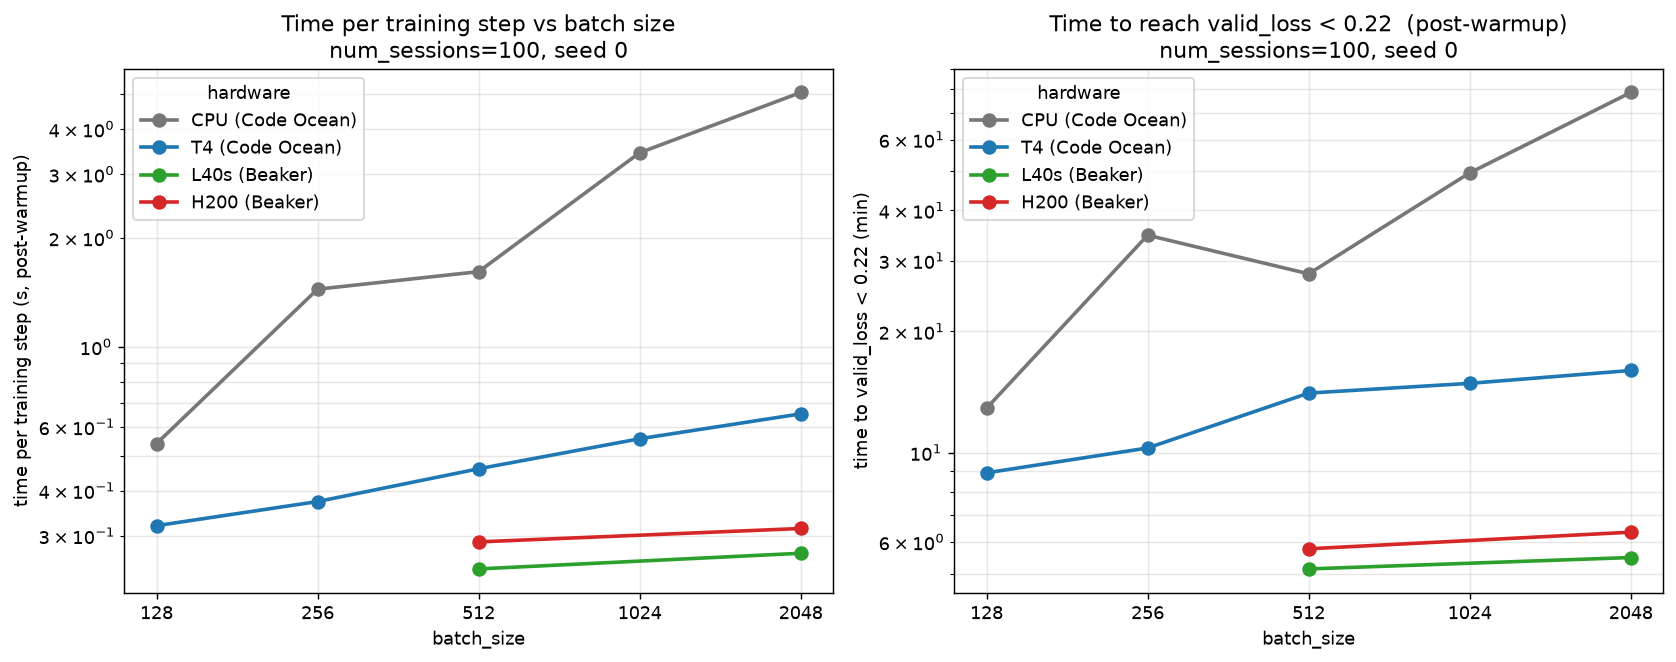
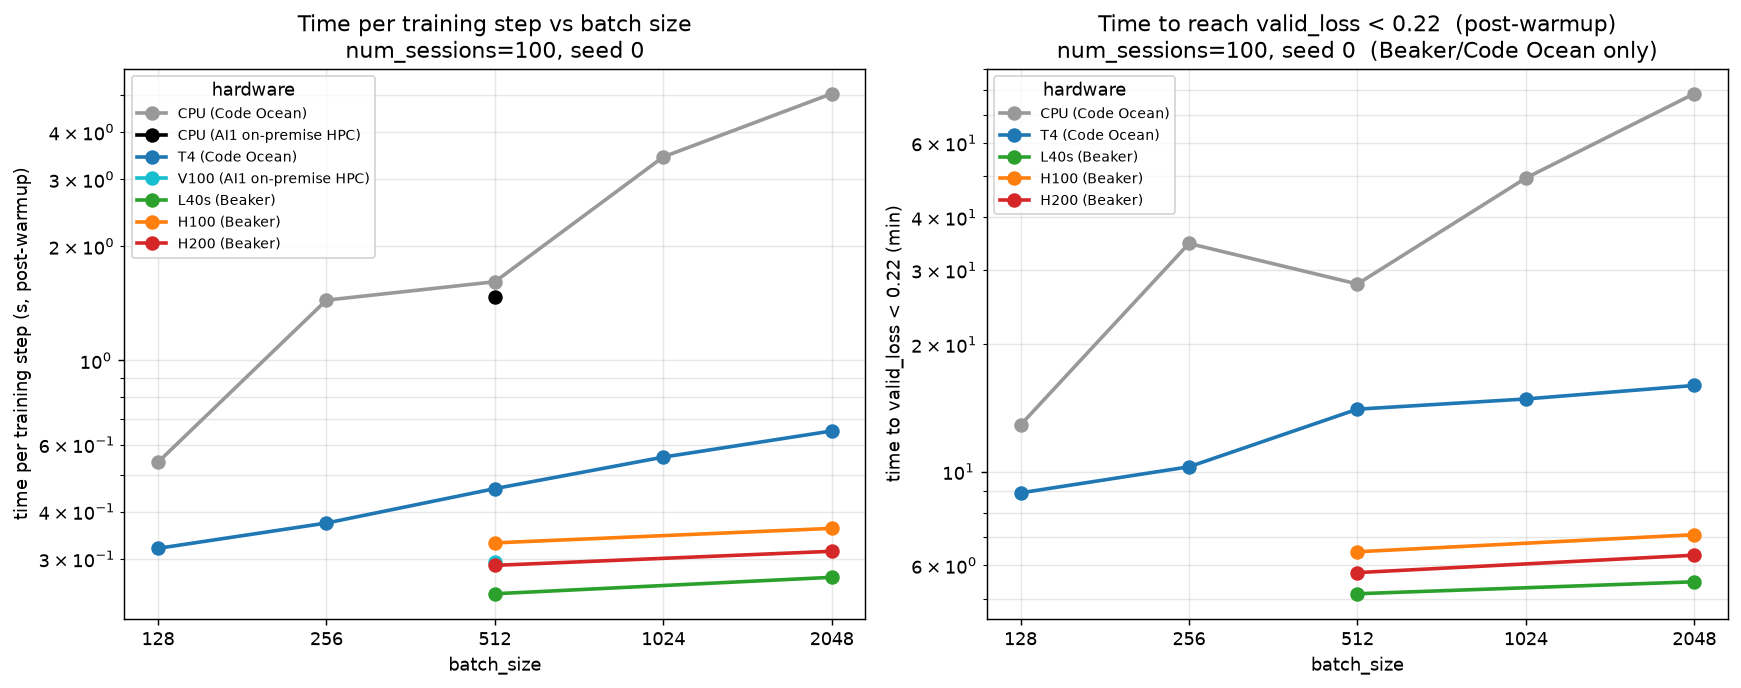
docs(beaker): 7-way hardware benchmark — add H100 (Beaker) + V100/CPU (AI1 HPC)
L40s remains fastest; V100/H100/H200 all sit above it (old V100 ties H200),
44-core HPC CPU ~= 4-core CO CPU. Figure now spans 3 platforms; plot script
uses direct final-summary s/step only.

diff --git a/beaker/benchmark/plot_hw_batch.py b/beaker/benchmark/plot_hw_batch.py
@@ -4,18 +4,23 @@ Pulls the benchmark runs from W&B and renders a 2-panel figure:
   left  = time per training step (s, post-warmup) vs batch size
   right = time to reach valid_loss < THRESHOLD (min, post-warmup) vs batch size
 
-All runs share the config (num_sessions=100, n_steps=5000, n_warmup_steps=500,
-lr=0.005, beta=0.001, seed=0, eval_every_n=2); only batch size / hardware vary.
-CPU and T4 ran on Code Ocean (Feb 2026); L40s and H200 on Beaker (Jun 2026).
+Hardware spans three platforms:
+  - Code Ocean   : CPU (4-core), T4
+  - AI1 on-premise HPC : CPU (44-core), V100   (s/step only -- see below)
+  - Beaker (AI Hub)    : L40s, H100, H200
+
+The Beaker/Code-Ocean runs share the config (num_sessions=100, n_steps=5000,
+n_warmup_steps=500, lr=0.005, beta=0.001, seed=0, eval_every_n=2); only batch
+size / hardware vary. The HPC runs use a shorter schedule (n_steps=200) on an
+older code revision, so their *throughput* (s/step) is comparable but their
+*time-to-target* is not -- HPC hardware therefore appears only on the left panel.
 
 NB the warm-up: a penalty term is inactive during the first n_warmup_steps, so
 validation loss there is not meaningful (it can dip below threshold spuriously).
-We therefore ignore eval points with step < n_warmup_steps for the crossing time.
+We ignore eval points with step < n_warmup_steps for the crossing time.
 
-Caveat: the CPU/T4 (Feb) and L40s/H200 (Jun) runs used different code revisions
-(active development); CPU/T4 floor at min val ~0.210 and never reach 0.21, so only
-the 0.22 threshold is a fair four-way comparison. Single seed -> the time-to-
-threshold curve is somewhat noisy.
+s/step is (elapsed_seconds - warmup_seconds) / n_steps from the run summary -- the
+direct measurement, logged when a run finishes. All runs must be complete.
 
 Run:  python plot_hw_batch.py
 """
@@ -25,29 +30,36 @@ import matplotlib.pyplot as plt
 import wandb
 
 ENTITY = "AIND-disRNN"
-NSTEP = 5000
 THRESHOLD = 0.22
 BS = [128, 256, 512, 1024, 2048]
 
-# hardware -> {batch_size: W&B run id}
-RUNS = {
-    "CPU":  {128: "jlx2egp9", 256: "xpnfv6xq", 512: "7n3r4x62",
-             1024: "unitjg8a", 2048: "2bvl403t"},
-    "T4":   {128: "l5z3dbac", 256: "23e7ndiv", 512: "g9jibgqd",
-             1024: "v0d2vmg8", 2048: "biflbgn5"},
-    "L40s": {512: "ybzvw1l9", 2048: "1wbc4tko"},
-    "H200": {512: "vhm9w9hz", 2048: "w5ix4w78"},
-}
-PROJ = {"CPU": "han_cpu_gpu_test", "T4": "han_cpu_gpu_test",
-        "L40s": "ai_hub_test", "H200": "ai_hub_test"}
-LABEL = {"CPU": "CPU (Code Ocean)", "T4": "T4 (Code Ocean)",
-         "L40s": "L40s (Beaker)", "H200": "H200 (Beaker)"}
-COL = {"CPU": "#777777", "T4": "tab:blue", "L40s": "tab:green", "H200": "tab:red"}
-ORDER = ["CPU", "T4", "L40s", "H200"]
+# label -> spec. panels: which panel(s) the series appears on.
+HW = [
+    dict(label="CPU (Code Ocean)", project="han_cpu_gpu_test",
+         color="#999999", panels=("sps", "ttt"),
+         runs={128: "jlx2egp9", 256: "xpnfv6xq", 512: "7n3r4x62",
+               1024: "unitjg8a", 2048: "2bvl403t"}),
+    dict(label="CPU (AI1 on-premise HPC)", project="hpc_test",
+         color="#000000", panels=("sps",), runs={512: "ya2n3sx5"}),
+    dict(label="T4 (Code Ocean)", project="han_cpu_gpu_test",
+         color="tab:blue", panels=("sps", "ttt"),
+         runs={128: "l5z3dbac", 256: "23e7ndiv", 512: "g9jibgqd",
+               1024: "v0d2vmg8", 2048: "biflbgn5"}),
+    dict(label="V100 (AI1 on-premise HPC)", project="hpc_test",
+         color="tab:cyan", panels=("sps",), runs={512: "q9acoys6"}),
+    dict(label="L40s (Beaker)", project="ai_hub_test",
+         color="tab:green", panels=("sps", "ttt"),
+         runs={512: "ybzvw1l9", 2048: "1wbc4tko"}),
+    dict(label="H100 (Beaker)", project="ai_hub_test",
+         color="tab:orange", panels=("sps", "ttt"),
+         runs={512: "l9cb2l2c", 2048: "ne6hxgvz"}),
+    dict(label="H200 (Beaker)", project="ai_hub_test",
+         color="tab:red", panels=("sps", "ttt"),
+         runs={512: "vhm9w9hz", 2048: "w5ix4w78"}),
+]
 
 
 def _find(d, target):
-    """Recursive lookup of a key anywhere in a nested config dict."""
     if isinstance(d, dict):
         for k, v in d.items():
             if k == target:
@@ -58,52 +70,65 @@ def _find(d, target):
     return None
 
 
-def collect():
-    api = wandb.Api()
-    sps, ttt = {}, {}   # hw -> bs -> value
-    for hw, m in RUNS.items():
-        sps[hw], ttt[hw] = {}, {}
-        for bs, rid in m.items():
-            run = api.run(f"{ENTITY}/{PROJ[hw]}/{rid}")
-            s = run.summary
-            sps[hw][bs] = (s["elapsed_seconds"] - s["warmup_seconds"]) / NSTEP
-            wu = _find(run.config, "n_warmup_steps") or 500
-            h = run.history(keys=["valid/loss", "_runtime", "_step"], pandas=True)
-            h = h.dropna(subset=["valid/loss"]).sort_values("_step")
-            post = h[h["_step"] >= wu]            # ignore warm-up-phase eval
-            below = post[post["valid/loss"] < THRESHOLD]
-            ttt[hw][bs] = float(below.iloc[0]["_runtime"]) / 60 if len(below) else None
+def _metrics(run):
+    """Return (s_per_step, time_to_threshold_min). Requires a finished run."""
+    s, c = run.summary, run.config
+    nstep = _find(c, "n_steps")
+    wu_steps = _find(c, "n_warmup_steps") or 500
+    el, ws = s.get("elapsed_seconds"), s.get("warmup_seconds")
+    if el is None or ws is None:
+        raise RuntimeError(f"run {run.id} not finished (no elapsed/warmup logged)")
+    sps = (el - ws) / nstep
+
+    h = run.history(keys=["valid/loss", "_runtime", "_step"], pandas=True)
+    h = h.dropna(subset=["valid/loss"]).sort_values("_step")
+    post = h[h["_step"] >= wu_steps]              # ignore warm-up-phase eval
+    below = post[post["valid/loss"] < THRESHOLD]
+    ttt = float(below.iloc[0]["_runtime"]) / 60 if len(below) else None
     return sps, ttt
 
 
-def plot(sps, ttt, out_png):
-    fig, (axL, axR) = plt.subplots(1, 2, figsize=(13, 5.2))
+def collect():
+    api = wandb.Api()
+    data = {}
+    for hw in HW:
+        d = {"sps": {}, "ttt": {}}
+        for bs, rid in hw["runs"].items():
+            sps, ttt = _metrics(api.run(f"{ENTITY}/{hw['project']}/{rid}"))
+            d["sps"][bs] = sps
+            if "ttt" in hw["panels"] and ttt is not None:
+                d["ttt"][bs] = ttt
+        data[hw["label"]] = d
+    return data
 
-    # left: time per training step
-    for hw in ORDER:
-        xs = [bs for bs in BS if bs in sps[hw]]
-        axL.plot(xs, [sps[hw][bs] for bs in xs], "o-",
-                 color=COL[hw], label=LABEL[hw], lw=2, ms=7)
-    axL.set_yscale("log")
+
+def plot(data, out_png):
+    fig, (axL, axR) = plt.subplots(1, 2, figsize=(13.5, 5.4))
+
+    for hw in HW:
+        d = data[hw["label"]]
+        if "sps" in hw["panels"]:
+            xs = [bs for bs in BS if bs in d["sps"]]
+            axL.plot(xs, [d["sps"][bs] for bs in xs], "o-",
+                     color=hw["color"], label=hw["label"], lw=2, ms=7)
+        if "ttt" in hw["panels"]:
+            xs = [bs for bs in BS if bs in d["ttt"]]
+            axR.plot(xs, [d["ttt"][bs] for bs in xs], "o-",
+                     color=hw["color"], label=hw["label"], lw=2, ms=7)
+
     axL.set_ylabel("time per training step (s, post-warmup)")
     axL.set_title("Time per training step vs batch size\nnum_sessions=100, seed 0")
-
-    # right: time to reach valid_loss < THRESHOLD
-    for hw in ORDER:
-        xs = [bs for bs in BS if ttt[hw].get(bs) is not None]
-        axR.plot(xs, [ttt[hw][bs] for bs in xs], "o-",
-                 color=COL[hw], label=LABEL[hw], lw=2, ms=7)
-    axR.set_yscale("log")
     axR.set_ylabel(f"time to valid_loss < {THRESHOLD} (min)")
     axR.set_title(f"Time to reach valid_loss < {THRESHOLD}  (post-warmup)\n"
-                  "num_sessions=100, seed 0")
+                  "num_sessions=100, seed 0  (Beaker/Code Ocean only)")
 
     for ax in (axL, axR):
         ax.set_xscale("log", base=2)
+        ax.set_yscale("log")
         ax.set_xticks(BS)
         ax.set_xticklabels(BS)
         ax.set_xlabel("batch_size")
-        ax.legend(title="hardware")
+        ax.legend(title="hardware", fontsize=8)
         ax.grid(True, which="both", alpha=0.3)
 
     fig.tight_layout()
@@ -113,6 +138,10 @@ def plot(sps, ttt, out_png):
 
 if __name__ == "__main__":
     import os
-    sps, ttt = collect()
-    plot(sps, ttt, os.path.join(os.path.dirname(__file__),
-                                "hw_batch_benchmark.png"))
+    data = collect()
+    for label in (h["label"] for h in HW):
+        d = data[label]
+        print(label, "s/step:", {b: round(v, 4) for b, v in d["sps"].items()},
+              "| time-to-0.22:", {b: round(v, 2) for b, v in d["ttt"].items()})
+    plot(data, os.path.join(os.path.dirname(__file__),
+                            "hw_batch_benchmark.png"))

diff --git a/beaker/README.md b/beaker/README.md
@@ -82,37 +82,38 @@ The wasted capacity is **spatial** (idle SMs *inside* each kernel), not temporal
     kernels**, confirming the low-occupancy diagnosis (and refuting the earlier guess
     that eval was to blame).
 
-11. **CPU / T4 / L40s / H200 hardware sweep (seed 0, `data.batch_size=512`).** A bigger
-    GPU stops helping past the L40s — the H200 is actually *slower* than the L40s, at
-    the lowest power %. Clean signature of a latency-bound, low-occupancy model: GPU
-    beats CPU (3.5–6.6×), but extra GPU capacity goes unused. **NB: this is bs=512** —
-    the result is batch-size dependent (see item 12).
+11. **CPU / T4 / L40s / H100 / H200 hardware sweep (seed 0, `data.batch_size=512`).** A
+    bigger GPU stops helping past the L40s — the H100 *and* H200 are both *slower* than
+    the L40s, at the lowest power %. Clean signature of a latency-bound, low-occupancy
+    model: GPU beats CPU (3.5–6.6×), but extra GPU capacity goes unused. **NB: this is
+    bs=512** — the result is batch-size dependent (see item 12).
 
-    | Metric (bs=512) | CPU (4-core, CO) | T4 (CO) | L40s | H200 |
-    |---|---|---|---|---|
-    | train s/step | 1.612 | 0.460 | **0.243** | 0.289 |
-    | total elapsed (5500 steps) | 8322 s | 2549 s | **1352 s** | 1600 s |
-    | speedup vs CPU | 1.0× | 3.5× | **6.6×** | 5.6× |
-    | GPU util | — | 99% | 96% | 97% |
-    | GPU power | — | 57% (40 W) | 30% (105 W) | **18% (125 W)** |
-    | energy / run | — | 102 kJ | 142 kJ | **200 kJ** |
+    | Metric (bs=512) | CPU (4-core, CO) | T4 (CO) | L40s | H200 | H100 |
+    |---|---|---|---|---|---|
+    | train s/step | 1.612 | 0.460 | **0.243** | 0.289 | 0.331 |
+    | total elapsed (5500 steps) | 8322 s | 2549 s | **1352 s** | 1600 s | 1832 s |
+    | speedup vs CPU | 1.0× | 3.5× | **6.6×** | 5.6× | 4.9× |
+    | GPU util | — | 99% | 96% | 97% | 98% |
+    | GPU power | — | 57% (40 W) | 30% (105 W) | **18% (125 W)** | 19% (133 W) |
+    | energy / run | — | 102 kJ | 142 kJ | 200 kJ | **244 kJ** |
 
-    **At bs=512: L40s is the sweet spot** — fastest *and* less wasteful than the H200.
-    The H200's extra SMs/bandwidth can't be used by a narrow+deep tiny model at this
-    batch, so it sits at 18% power (700 W card) and burns the most energy. (Bigger
-    batches change this — item 12.)
+    **At bs=512: L40s is the sweet spot** — fastest *and* least wasteful. The bigger
+    Hopper cards (H100/H200) can't use their extra SMs/bandwidth on a narrow+deep tiny
+    model, so they sit at ~18–19% power and burn the most energy (the H100 is both the
+    slowest GPU here *and* the least efficient). (Bigger batches change the per-step
+    cost but not this ranking — item 12.)
 
 12. **Batch size = the real per-GPU lever (bs=2048 vs bs=512).** Re-ran the sweep at
     `data.batch_size=2048` (all else fixed). On the big GPUs a 4× batch costs almost no
     wall-clock — the spatial headroom (idle SMs) absorbs it:
 
-    | Metric (bs=2048) | CPU (4-core) | T4 | L40s | H200 |
-    |---|---|---|---|---|
-    | train s/step | 5.045 | 0.652 | **0.268** | 0.314 |
-    | total elapsed (5500) | 26066 s | 3602 s | **1494 s** | 1748 s |
-    | speedup vs CPU | 1.0× | 7.7× | **18.9×** | 16.1× |
-    | GPU util | — | 99% | 96% | 96% |
-    | GPU power | — | 63% (44 W) | 34% (117 W) | **19% (133 W)** |
+    | Metric (bs=2048) | CPU (4-core) | T4 | L40s | H200 | H100 |
+    |---|---|---|---|---|---|
+    | train s/step | 5.045 | 0.652 | **0.268** | 0.314 | 0.361 |
+    | total elapsed (5500) | 26066 s | 3602 s | **1494 s** | 1748 s | 2005 s |
+    | speedup vs CPU | 1.0× | 7.7× | **18.9×** | 16.1× | 14.0× |
+    | GPU util | — | 99% | 96% | 96% | 98% |
+    | GPU power | — | 63% (44 W) | 34% (117 W) | **19% (133 W)** | 21% (145 W) |
 
     Throughput gain going bs 512→2048 (4× samples/step ÷ time-ratio): CPU 1.28×, T4
     2.82×, **L40s 3.62×, H200 3.68×** — i.e. the big GPUs take 4× the work for only
@@ -130,18 +131,37 @@ The wasted capacity is **spatial** (idle SMs *inside* each kernel), not temporal
 
 ![Hardware × batch-size benchmark](benchmark/hw_batch_benchmark.png)
 
+Seven hardware targets across three platforms — **Code Ocean** (CPU 4-core, T4),
+**AI1 on-premise HPC** (CPU 44-core, V100), **Beaker / AI Hub** (L40s, H100, H200).
 Both panels: num_sessions=100, seed 0, post-warmup (eval during the warm-up phase
 is ignored — a penalty term is inactive then, so val loss is not meaningful).
 Reproduce with `python beaker/benchmark/plot_hw_batch.py`.
 
-- **Left — time per training step.** The *slope* is the marginal cost of batch:
-  L40s/H200 flat (≈free), T4 gentle, CPU steep (≈linear — no idle compute).
+- **Left — time per training step** (throughput; all 7). The *slope* is the marginal
+  cost of batch: the GPUs are nearly flat (bigger batch ≈ free), CPU is steep
+  (≈linear — no idle compute to reclaim).
 - **Right — time to `valid_loss < 0.22`** (the fair cross-batch metric: folds in
-  sample efficiency). Same ordering L40s < H200 < T4 < CPU at every batch.
+  sample efficiency). Beaker/Code-Ocean only (see threshold caveat below).
 
-Only the 0.22 threshold is a fair four-way comparison: CPU/T4 (Code Ocean, Feb
-code) floor at min val ≈0.210, while L40s/H200 (Beaker, Jun `ai_hub` code) reach
-≈0.204 — a code-version difference, not hardware.
+**s/step ladder at bs=512** (the point all platforms share):
+
+| L40s | H200 | V100 (HPC) | H100 | T4 | CPU 44-core (HPC) | CPU 4-core (CO) |
+|---|---|---|---|---|---|---|
+| **0.243** | 0.289 | 0.294 | 0.331 | 0.460 | 1.468 | 1.612 |
+
+Two cross-platform confirmations that the model — not the hardware — is the limit:
+- **The L40s is fastest; all three big datacenter GPUs (V100/H100/H200) sit *above*
+  it**, and an *old* V100 ties a brand-new H200. Raw GPU size doesn't help a
+  latency-bound, low-occupancy model.
+- **A 44-core HPC CPU (1.468) barely beats a 4-core Code-Ocean CPU (1.612)** — 11× the
+  cores buy ~10%. The model doesn't parallelize across cores either.
+
+Two caveats (both reflected in the figure): the **HPC runs** use a shorter schedule
+(200 steps) on older code, so they appear on the **left/throughput panel only** —
+s/step is comparable, time-to-target is not. And on the right panel only the **0.22**
+threshold is a fair comparison: CPU/T4 (Code Ocean, Feb code) floor at min val ≈0.210
+while the Beaker GPUs (Jun `ai_hub` code) reach ≈0.204 — a code-version difference,
+not hardware.
 
 **Next (per-GPU efficiency lever, not packing):** the headroom is *spatial* (idle SMs
 within each tiny kernel), reclaimable only by **fatter kernels** — `jax.vmap` / bigger